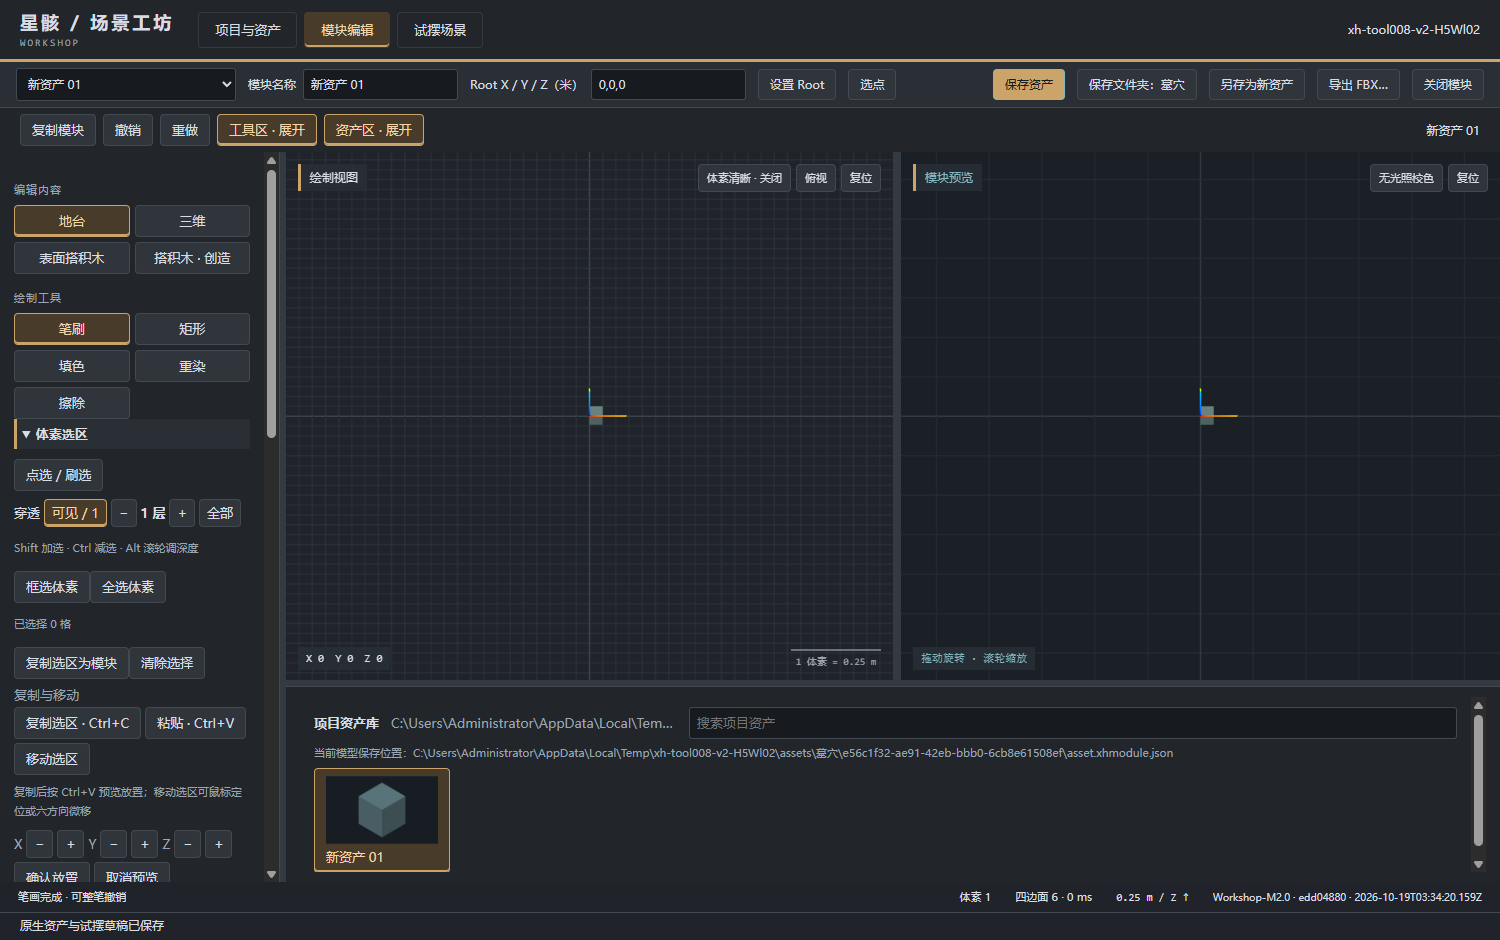
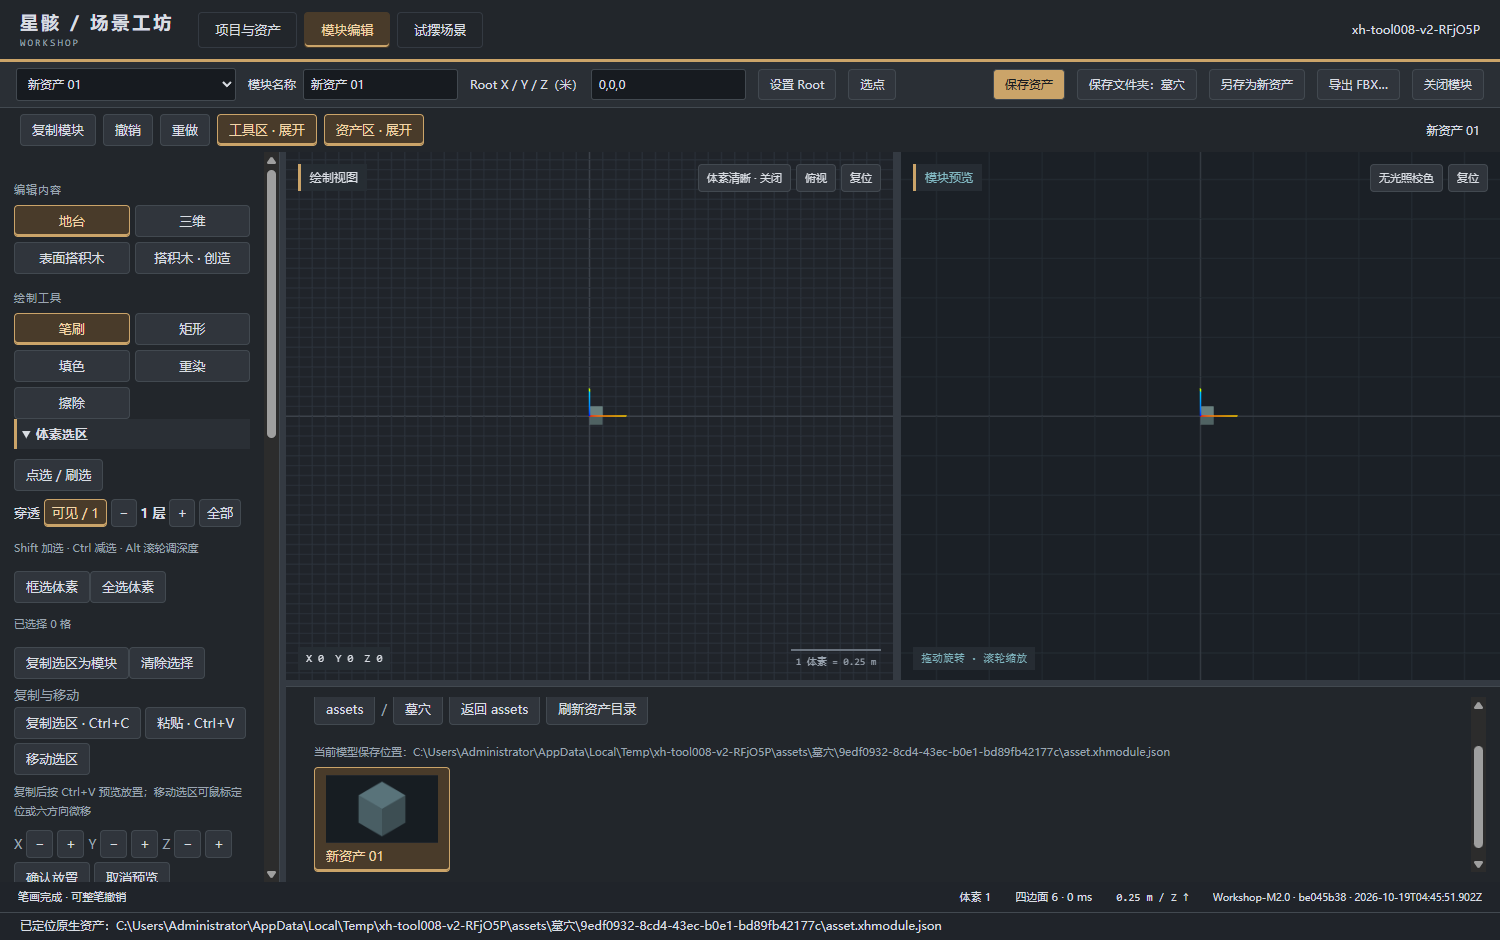
feat(workshop): browse project asset folders from disk

diff --git a/自制工具/map_editor/desktop/workshop.ts b/自制工具/map_editor/desktop/workshop.ts
@@ -28,6 +28,9 @@ let manager = new WorkshopSession(),
 let savedProjectName = '';
 let projectRoot = '';
 let assetSearch = '', assetSort: 'name' | 'cells' = 'name', assetView: 'cards' | 'list' = 'cards';
+type DiskAssetEntry = { kind: 'directory' | 'asset' | 'file' | 'link'; name: string; path: string; assetId?: string };
+let assetBrowserFolder = '', assetBrowserEntries: DiskAssetEntry[] = [], assetBrowserLoaded = false;
+let assetBrowserRequest = 0;
 const scenes = new Map<string, SceneDocument>(),
   leases = new Map<string, any>();
 const binaryAssets = new Map<string, { row: any; data: string }>();
@@ -458,6 +461,7 @@ function activate(next: string) {
   manager.activate(next as any, next === "module" ? assetId : sceneId);
   if (next === "project") renderProject();
   if (next === "module") { renderModuleProjectAssets(); moduleEditor.resize(); }
+  if (isV2() && (next === 'project' || next === 'module')) void refreshAssetBrowser();
   if (next === "assembly") void run(renderAssembly);
   if (next === "publish") void run(renderPublish);
 }
@@ -527,6 +531,8 @@ async function loadProject(selected: any) {
   token = selected.token;
   project = selected.document;
   projectRoot = selected.root ?? (selected.token === previousToken ? projectRoot : '');
+  if (selected.token !== previousToken) assetBrowserFolder = '';
+  assetBrowserEntries = []; assetBrowserLoaded = false; assetBrowserRequest++;
   savedProjectName = project!.name;
   manager = new WorkshopSession();
   scenes.clear();
@@ -839,7 +845,7 @@ async function addAsset(asset = createAsset(crypto.randomUUID())) {
     const projectV2 = project as ProjectV2;
     if (!asset.name) asset.name = `新资产 ${String(projectV2.assets.length + 1).padStart(2, '0')}`;
     projectV2.assets.push({ kind: 'voxel', assetId: asset.assetId, name: asset.name,
-      revision: asset.revision, source: `assets/${asset.assetId}/asset.xhmodule.json`, preview: null });
+      revision: asset.revision, source: assetSourcePath(asset.assetId, assetBrowserFolder), preview: null });
     manager.openAsset(asset, null); refreshV2Registries(); generation++; dirty();
     await editAsset(asset.assetId); return;
   }
@@ -933,7 +939,57 @@ function syncFields() {
 }
 function assetFolder(source: string): string {
   const parts = source.split('/');
-  return parts.length === 4 ? parts[1] : '';
+  return parts.slice(1, -2).join('/');
+}
+async function refreshAssetBrowser() {
+  if (!isV2() || !token) return;
+  const request = ++assetBrowserRequest, capturedToken = token, folder = assetBrowserFolder;
+  try {
+    const entries = await api.v2ListAssetDirectory(capturedToken, folder) as DiskAssetEntry[];
+    if (request !== assetBrowserRequest || capturedToken !== token || folder !== assetBrowserFolder) return;
+    assetBrowserEntries = entries; assetBrowserLoaded = true;
+    if (workspace === 'project') renderProject();
+    if (workspace === 'module') renderModuleProjectAssets();
+  } catch (error: any) {
+    if (request === assetBrowserRequest) message(`读取资产目录失败：${error.message}`);
+  }
+}
+function openAssetBrowserFolder(folder: string) {
+  assetBrowserFolder = folder; assetBrowserEntries = []; assetBrowserLoaded = false;
+  assetSearch = ''; moduleAssetQuery = '';
+  if (workspace === 'project') renderProject();
+  if (workspace === 'module') renderModuleProjectAssets();
+  void refreshAssetBrowser();
+}
+function assetBrowserNavigation(): HTMLElement {
+  const nav = element('nav'); nav.className = 'asset-directory-nav';
+  nav.setAttribute('aria-label', '项目资产目录');
+  const parts = assetBrowserFolder ? assetBrowserFolder.split('/') : [];
+  nav.append(button('assets', () => openAssetBrowserFolder('')));
+  for (let i = 0; i < parts.length; i++) {
+    nav.append(element('span', '/'), button(parts[i], () => openAssetBrowserFolder(parts.slice(0, i + 1).join('/'))));
+  }
+  if (assetBrowserFolder) nav.append(button('返回 assets', () => openAssetBrowserFolder(parts.slice(0, -1).join('/'))));
+  nav.append(button('刷新资产目录', () => void refreshAssetBrowser()));
+  return nav;
+}
+function assetBrowserDiskItems(query = ''): HTMLElement {
+  const items = element('div'); items.className = 'asset-directory-items';
+  if (!assetBrowserLoaded) { items.append(element('span', '正在读取目录…')); return items; }
+  for (const entry of assetBrowserEntries.filter((item) =>
+    item.name.toLocaleLowerCase().includes(query.trim().toLocaleLowerCase()))) {
+    if (entry.kind === 'directory') {
+      const folder = button(`📁 ${entry.name}`, () => openAssetBrowserFolder(entry.path));
+      folder.className = 'asset-directory-folder'; folder.setAttribute('aria-label', `文件夹 ${entry.name}`);
+      items.append(folder);
+    } else if (entry.kind === 'file' || entry.kind === 'link') {
+      const file = element('span', `${entry.kind === 'link' ? '↗' : '▤'} ${entry.name}`);
+      file.className = 'asset-directory-file'; file.title = entry.kind === 'link'
+        ? '链接文件不参与工坊项目' : '未登记的文件；工坊不会将其作为原生资产编辑';
+      items.append(file);
+    }
+  }
+  return items;
 }
 let moduleAssetQuery = '';
 let legacyExternalShown = false;
@@ -1001,9 +1057,10 @@ function renderModuleProjectAssets() {
   const title = element('strong', '项目资产库');
   const root = element('span', projectRoot); root.className = 'project-asset-root';
   const search = document.createElement('input'); search.type = 'search';
-  search.placeholder = '搜索项目资产'; search.setAttribute('aria-label', '搜索项目资产');
+  search.placeholder = '搜索当前目录'; search.setAttribute('aria-label', '搜索项目资产');
   search.value = moduleAssetQuery;
   header.append(title, root, search); panel.append(header);
+  panel.append(assetBrowserNavigation(), assetBrowserDiskItems(moduleAssetQuery));
   const current = (project as ProjectV2).assets.find((item) => item.assetId === assetId);
   if (current?.kind === 'voxel') {
     const separator = projectRoot.includes('\\') ? '\\' : '/';
@@ -1011,7 +1068,8 @@ function renderModuleProjectAssets() {
     location.className = 'module-asset-location'; panel.append(location);
   }
   const grid = element('div'); grid.className = 'project-asset-tiles';
-  for (const row of (project as ProjectV2).assets.filter((item) => item.kind === 'voxel')) {
+  for (const row of (project as ProjectV2).assets.filter((item) =>
+    item.kind === 'voxel' && assetFolder(item.source) === assetBrowserFolder)) {
     const session = manager.assetSession(row.assetId);
     const card = element('button') as HTMLButtonElement;
     card.className = 'project-asset-tile'; card.dataset.searchText = name(row.name).toLocaleLowerCase();
@@ -1027,9 +1085,11 @@ function renderModuleProjectAssets() {
     moduleAssetQuery = search.value;
     for (const card of grid.querySelectorAll<HTMLElement>('.project-asset-tile'))
       card.hidden = !card.dataset.searchText?.includes(moduleAssetQuery.trim().toLocaleLowerCase());
+    panel!.querySelector('.asset-directory-items')?.replaceWith(assetBrowserDiskItems(moduleAssetQuery));
   };
   panel.append(grid);
-  if (!grid.children.length) panel.append(element('p', '项目资产库为空；完成模型后点击上方“保存资产”。'));
+  if (!grid.children.length && assetBrowserLoaded && !assetBrowserEntries.length)
+    panel.append(element('p', '当前文件夹为空；完成模型后点击上方“保存资产”。'));
 }
 $('migrate-module').onclick = () => void run(() => migrateLegacyProject(true));
 $('asset-folder').onclick = () => void run(async () => {
@@ -1038,7 +1098,7 @@ $('asset-folder').onclick = () => void run(async () => {
   if (!row || row.kind !== 'voxel') throw Error('原生资产未登记');
   if (manager.assetSession(assetId).savedHash !== null)
     throw Error('已保存资产的文件夹保持稳定；请使用“另存为新资产”选择另一文件夹');
-  const choice = await askName('项目内分类文件夹', assetFolder(row.source) || '默认');
+  const choice = await askName('项目内分类文件夹（可用 / 分层）', assetBrowserFolder || assetFolder(row.source) || '默认');
   if (choice === null) return;
   row.source = assetSourcePath(assetId, choice === '默认' ? '' : choice);
   generation++; dirty(); syncFields(); message(`资产将保存到 ${row.source}`);
@@ -1085,6 +1145,7 @@ async function saveAllV2() {
     refreshV2Registries(); dirty();
     if (workspace === 'project') renderProject();
     if (workspace === 'module') renderModuleProjectAssets();
+    void refreshAssetBrowser();
     message('原生资产与试摆草稿已保存');
   } finally { saving = false; }
 }
@@ -1208,23 +1269,27 @@ function renderProjectV2() {
   if (!projectV2.scenes.length) sidebar.append(element('p', '尚无试摆场景。资产可以先独立制作和保存。'));
   columns.append(sidebar);
   const main = element('main');
-  main.append(element('h2', `原生资产 · ${projectV2.assets.length}`));
+  main.append(element('h2', `项目资产 · ${projectV2.assets.length}`));
   const browse = element('div'); browse.className = 'asset-browse actions';
-  const search = document.createElement('input'); search.type = 'search'; search.placeholder = '搜索项目资产';
+  const search = document.createElement('input'); search.type = 'search'; search.placeholder = '搜索当前目录';
   search.setAttribute('aria-label', '搜索项目资产'); search.value = assetSearch;
   const view = button(assetView === 'cards' ? '列表视图' : '卡片视图', () => {
     assetView = assetView === 'cards' ? 'list' : 'cards'; renderProject();
   });
   view.setAttribute('aria-pressed', String(assetView === 'list'));
   browse.append(search, view); main.append(browse);
+  main.append(assetBrowserNavigation(), assetBrowserDiskItems(assetSearch));
   const grid = element('div'); grid.className = 'asset-grid';
   grid.classList.toggle('list-view', assetView === 'list');
   search.oninput = () => {
     assetSearch = search.value;
     for (const card of grid.querySelectorAll<HTMLElement>('.module-card'))
       card.hidden = !card.dataset.searchText?.includes(assetSearch.trim().toLocaleLowerCase());
+    main.querySelector('.asset-directory-items')?.replaceWith(assetBrowserDiskItems(assetSearch));
   };
-  const rows = [...projectV2.assets].sort((a, b) => name(a.name).localeCompare(name(b.name), 'zh-CN'));
+  const rows = projectV2.assets.filter((row) => row.kind !== 'voxel' ||
+    assetFolder(row.source) === assetBrowserFolder)
+    .sort((a, b) => name(a.name).localeCompare(name(b.name), 'zh-CN'));
   for (const row of rows) {
     const card = element('article'); card.className = 'module-card';
     if (row.kind === 'voxel') card.oncontextmenu = (event) => showAssetContextMenu(event, row.assetId);
@@ -1271,7 +1336,8 @@ function renderProjectV2() {
     }
     card.append(cardActions); grid.append(card);
   }
-  if (!rows.length) main.append(element('p', '项目资产库为空。点击“新建资产”，无需先创建场景。'));
+  if (!rows.length && assetBrowserLoaded && !assetBrowserEntries.length)
+    main.append(element('p', '当前文件夹为空。可在资源管理器中创建文件夹，返回工坊后刷新。'));
   main.append(grid); columns.append(main); host.append(columns);
   void renderTrashV2(host);
 }
@@ -1629,8 +1695,8 @@ async function saveCurrentAsNewAsset() {
   if (!newName) return;
   copy.name = newName;
   const currentRow = (project as ProjectV2).assets.find((row) => row.assetId === assetId);
-  const folderName = await askName('项目内分类文件夹',
-    currentRow?.kind === 'voxel' ? assetFolder(currentRow.source) || '默认' : '默认');
+  const folderName = await askName('项目内分类文件夹（可用 / 分层）',
+    assetBrowserFolder || (currentRow?.kind === 'voxel' ? assetFolder(currentRow.source) || '默认' : '默认'));
   if (folderName === null) return;
   const folder = folderName === '默认' ? '' : folderName;
   assetSourcePath(copy.assetId, folder);
@@ -1644,6 +1710,7 @@ async function saveCurrentAsNewAsset() {
   summaries.set(copy.assetId, { name: copy.name, count: copy.cells.length });
   refreshV2Registries(); dirty();
   await editAsset(copy.assetId);
+  void refreshAssetBrowser();
   message('已另存为新的项目资产；原资产未被覆盖');
 }
 $('save-asset-as').onclick = () => void run(saveCurrentAsNewAsset);
@@ -1723,3 +1790,6 @@ for (const label of $("app").querySelectorAll<HTMLElement>(".section-label"))
 $("app").querySelectorAll<HTMLElement>(".view-label")[1].textContent =
   "模块预览";
 activate("project");
+window.addEventListener('focus', () => {
+  if (isV2() && (workspace === 'project' || workspace === 'module')) void refreshAssetBrowser();
+});

diff --git a/自制工具/map_editor/tests/workshop-v2-store.test.ts b/自制工具/map_editor/tests/workshop-v2-store.test.ts
@@ -77,6 +77,22 @@ test('v2 saves a new asset under a selected internal category and reopens it', (
   assert.equal(await fs.stat(path.join(root, 'assets/墓穴/stone/asset.xhmodule.json')).then((s) => s.isFile()), true);
 }));
 
+test('v2 browses disk folders and registered assets, including external changes', () => fixture(async (root, repo) => {
+  const opened = await repo.create(root, createProjectV2('project'));
+  await fs.mkdir(path.join(root, 'assets', '环境', '墓穴'), { recursive: true });
+  await fs.writeFile(path.join(root, 'assets', 'notes.txt'), 'hello');
+  assert.deepEqual((await repo.listAssetDirectory(opened.token, '')).map((entry: any) => entry.name), ['环境', 'notes.txt']);
+  const asset = createAsset('stone'); asset.name = '石柱';
+  await repo.saveAsset(opened.token, asset, null, null, '环境/墓穴');
+  assert.deepEqual((await repo.listAssetDirectory(opened.token, '环境/墓穴')).map((entry: any) =>
+    [entry.kind, entry.name, entry.assetId]), [['asset', '石柱', 'stone']]);
+  await fs.mkdir(path.join(root, 'assets', '环境', '野外'));
+  assert.deepEqual((await repo.listAssetDirectory(opened.token, '环境')).map((entry: any) => entry.name), ['墓穴', '野外']);
+  await fs.rm(path.join(root, 'assets', '环境', '墓穴', 'stone', 'asset.xhmodule.json'));
+  assert.equal((await repo.listAssetDirectory(opened.token, '环境/墓穴'))[0].kind, 'directory');
+  await assert.rejects(repo.listAssetDirectory(opened.token, '../outside'), /路径/);
+}));
+
 test('v2 save-as project copies live sources into a new directory and keeps the old project untouched', () => fixture(async (root, repo) => {
   const oldRoot = path.join(root, 'source');
   await fs.mkdir(oldRoot);

diff --git a/自制工具/map_editor/core/workshop-v2.ts b/自制工具/map_editor/core/workshop-v2.ts
@@ -49,16 +49,18 @@ function path(value: unknown, expected: string, label: string) {
 }
 export function assetSourcePath(assetId: string, folder = ''): string {
   id(assetId, '资产');
-  if (folder && (!/^[\p{L}\p{N}_-]{1,40}$/u.test(folder) ||
-      /^(CON|PRN|AUX|NUL|COM[1-9]|LPT[1-9])$/i.test(folder)))
+  const segments = folder ? folder.split('/') : [];
+  if (segments.length > 8 || segments.some((part) =>
+    !part || part.length > 80 || /[\\/:*?"<>|\x00-\x1f]/.test(part) ||
+    /[. ]$/.test(part) || /^(CON|PRN|AUX|NUL|COM[1-9]|LPT[1-9])(?:\.|$)/i.test(part)))
     throw Error('项目内分类文件夹路径无效');
   return `assets/${folder ? `${folder}/` : ''}${assetId}/asset.xhmodule.json`;
 }
 function voxelSource(value: unknown, assetId: string) {
   if (typeof value !== 'string') throw Error('体素资产路径无效');
   const parts = value.split('/');
-  if (parts.length !== 3 && parts.length !== 4) throw Error('体素资产路径无效');
-  path(value, assetSourcePath(assetId, parts.length === 4 ? parts[1] : ''), '体素资产');
+  if (parts.length < 3 || parts.length > 11) throw Error('体素资产路径无效');
+  path(value, assetSourcePath(assetId, parts.slice(1, -2).join('/')), '体素资产');
 }
 function assetFile(value: unknown, assetId: string, label: string) {
   if (typeof value !== 'string' || !value.startsWith(`assets/${assetId}/`) ||

diff --git a/自制工具/map_editor/tests/workshop-v2.test.ts b/自制工具/map_editor/tests/workshop-v2.test.ts
@@ -52,3 +52,16 @@ test('v2 accepts one controlled project asset category folder and rejects escapi
   assert.throws(() => validateProjectV2({ ...project, assets: [{ ...row, source: 'assets/../stone/asset.xhmodule.json' }] }), /路径/);
   assert.throws(() => validateProjectV2({ ...project, assets: [{ ...row, source: 'assets/CON/stone/asset.xhmodule.json' }] }), /路径/);
 });
+
+test('v2 accepts nested asset folders but rejects traversal and reserved segments', () => {
+  const project = createProjectV2('project');
+  const row = { kind: 'voxel' as const, assetId: 'stone', name: '石柱', revision: 0,
+    source: 'assets/环境/墓穴/stone/asset.xhmodule.json', preview: null };
+  project.assets.push(row);
+  assert.equal(validateProjectV2(project).assets[0].source, row.source);
+  assert.equal(validateProjectV2({ ...project, assets: [{ ...row,
+    source: 'assets/New Folder/石窟 01/stone/asset.xhmodule.json' }] }).assets.length, 1);
+  for (const source of ['assets/环境/../stone/asset.xhmodule.json',
+    'assets/环境/CON/stone/asset.xhmodule.json', 'assets/环境//stone/asset.xhmodule.json'])
+    assert.throws(() => validateProjectV2({ ...project, assets: [{ ...row, source }] }), /路径/);
+});

diff --git a/自制工具/map_editor/desktop/workshop.css b/自制工具/map_editor/desktop/workshop.css
@@ -315,6 +315,12 @@
 }
 .asset-browse { margin: 10px 0 14px; }
 .asset-browse input { min-width: 180px; }
+.asset-directory-nav { display: flex; flex-wrap: wrap; align-items: center; gap: 6px; margin: 8px 0; color: var(--text-muted); }
+.asset-directory-nav button { margin: 0; }
+.asset-directory-items { display: flex; flex-wrap: wrap; gap: 8px; margin: 8px 0 12px; }
+.asset-directory-folder, .asset-directory-file { min-width: 128px; padding: 9px 12px; border: 1px solid var(--border-soft); background: var(--panel-secondary); color: var(--text-main); text-align: left; border-radius: 4px; }
+.asset-directory-folder:hover, .asset-directory-folder:focus-visible { border-color: var(--accent-main); }
+.asset-directory-file { opacity: .75; }
 .workshop-page .asset-grid.list-view { display: flex; flex-direction: column; max-width: 980px; }
 .workshop-page .asset-grid.list-view .module-card { display: grid; grid-template-columns: 100px minmax(120px, 1fr) auto; align-items: center; gap: 8px; }
 .workshop-page .asset-grid.list-view .module-card-preview { grid-row: 1 / 3; height: 72px; }

diff --git a/docs/tasks/TOOL-008/handoff.md b/docs/tasks/TOOL-008/handoff.md
@@ -26,3 +26,5 @@
 **后续截图纠正：**用户再次打开的确是 `12fbe8a` 新 EXE，但载入的是 v1 旧项目，因此新资产入口没有出现。模块编辑现在会明确标示“旧项目 · 当前是场景私有草稿”，顶部给出“保存并转换为项目资产”。操作会先保存未存草稿，在自选目录创建 v2 项目副本，并回到刚才编辑的对应资产；旧项目保持原样。v1 外部 GLB/PNG 库改为默认收起，可手动展开。旧项目不会被静默改写。
 
 项目原生资产卡片现在支持右键「在文件管理器中定位」，模块编辑底栏和项目页使用同一入口，Windows 文件管理器会选中已保存的 `.xhmodule.json`。未保存的新资产需先保存。定位 IPC 只接受当前项目 token 与登记资产 ID，再由受管仓库校验源文件，不接受渲染进程传任意文件路径。
+
+项目资产区现按磁盘 `assets/` 目录浏览。外部新建的文件夹及普通文件可在模块编辑和项目页看到；切回窗口或点击「刷新资产目录」会重读目录。进入文件夹后显示该目录的原生资产缩略图，新建资产会使用当前目录，「保存文件夹」和「另存为新资产」支持受校验的多层目录。项目登记仍负责判定哪些 `.xhmodule.json` 可编辑，普通文件只显示，不会被误当成工坊资产。符号链接只标识而不进入。项目副本仍仅复制登记资产与场景；外部放入的普通文件、空目录不随项目副本复制。

diff --git a/记录/2026-10-19.md b/记录/2026-10-19.md
@@ -9,3 +9,5 @@ TOOL-008 资产浏览修正：用户截图仍是 `080af29` 旧包。核对发现
 TOOL-008 旧项目入口纠正：后续截图底部 `12fbe8a` 证实程序已更新，但项目仍是 v1。原先把“看不到功能”只归因于旧 EXE 不完整。模块页现在明确提示 v1 场景私有草稿，顶部提供“保存并转换为项目资产”；先保存、再创建新 v2 副本并回到对应资产，原项目字节不变。外部 GLB/PNG 库默认收起，仍可展开。真实 Electron 回归通过，见 TOOL-008 validation。
 
 TOOL-008 原生资产定位：模块页底栏和项目页的项目资产图卡支持右键「在文件管理器中定位」，选中项目受管的 `.xhmodule.json`。未存资产先保存；IPC 以项目 token 和资产 ID 查登记源并验证，不接受任意路径。真实 Electron 右键及 shell 路径断言见 TOOL-008 validation。
+
+TOOL-008 磁盘目录浏览：资产库原先只按项目登记列表渲染，外部在 `assets/` 新建文件夹不可见。现在模块编辑与项目页浏览同一磁盘目录树，窗口聚焦或手动刷新重读，普通文件仅显示，登记资产保留预览；新资产可保存到当前目录，多层分类路径受校验。249 项自动测试及 Electron 外建目录、文件显示、嵌套保存/重开回放通过；项目副本仍只复制登记内容。
